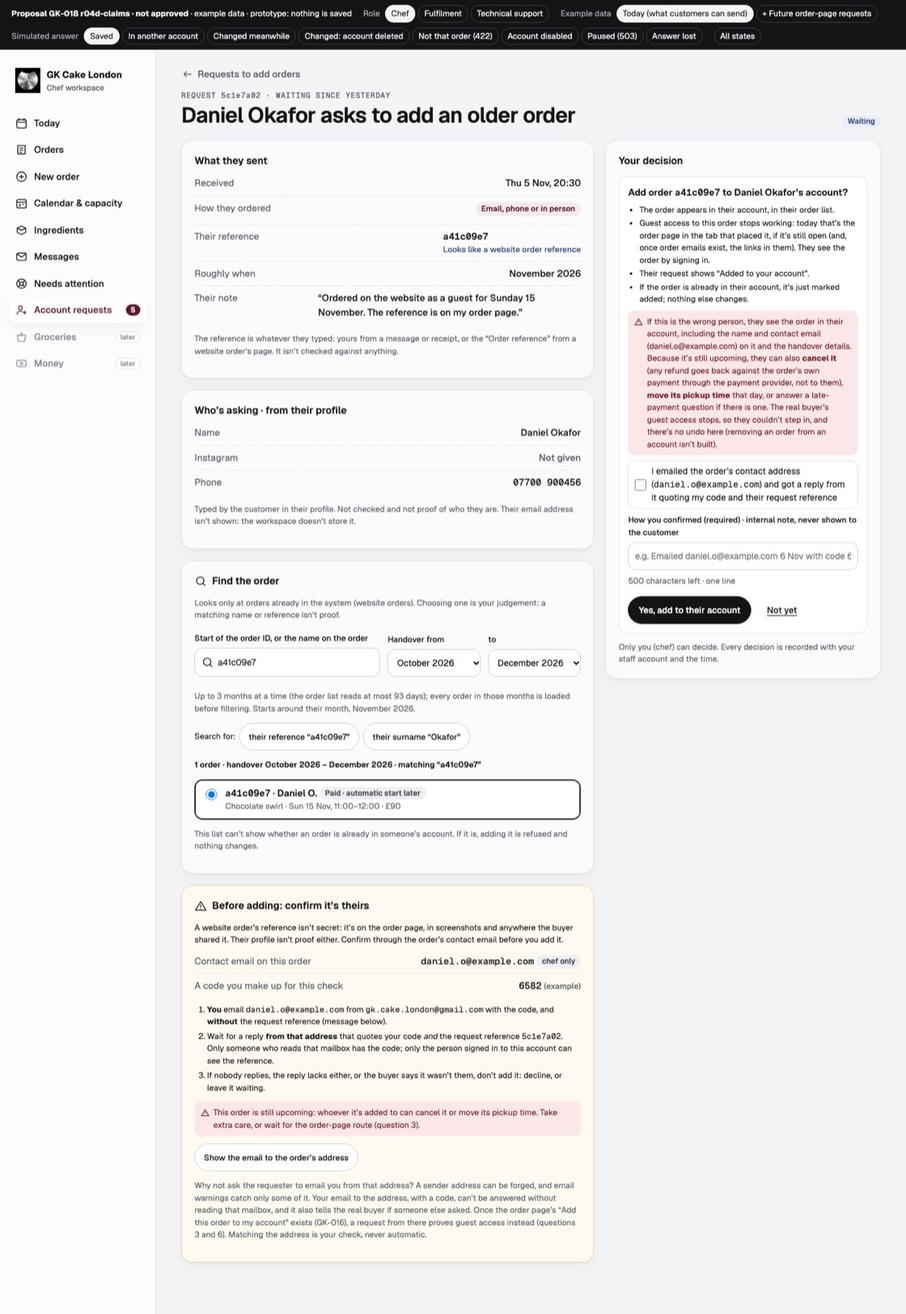
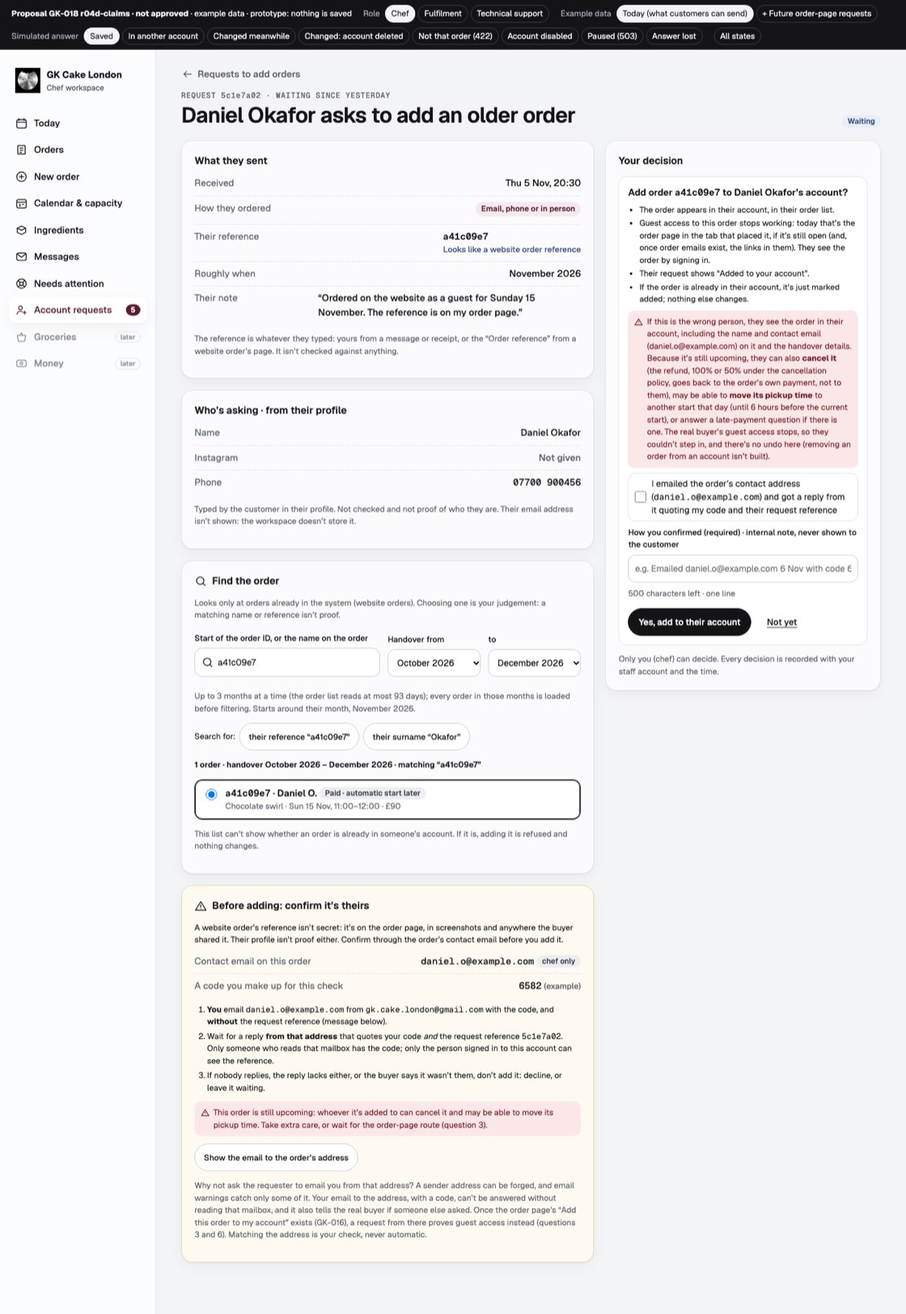
GK-018 r04d-claims: wording fixes after round 4 (still a proposal, not approved)
Wrong-approval warning: the refund is 100% or 50% under the cancellation policy and goes back to the
order's own payment; the pickup move is only for collection/customer-courier orders until 6 hours
before the start (omitted for GK delivery); the decision column adds 'Take extra care'. Garbled
execution-check line fixed; round-3 table aligned; round-4 table and checks in session.md; S23,
S34, S48 re-shot.

diff --git a/docs/design/sessions/chef-operations/gk-018-r04-claims/poc/request.js b/docs/design/sessions/chef-operations/gk-018-r04-claims/poc/request.js
@@ -87,6 +87,10 @@ function results(){const t=S.term.trim().toLowerCase();const inRange=ORDERS.filt
 // An order the account owner could still act on (api/README: the owner (bearer) may preview and cancel, move the pickup
 // time on the same day, and answer a late-payment offer). Handed over or cancelled orders can only be seen.
 const actionable=od=>od&&!['completed','cancelled'].includes(od.life);
+// The customer's own move: collection and customer-courier orders only, at least 6 hours before the current start, to
+// another published start that day (api/README "Customer move"; BO-GK-001.move_time). GK delivery: chef only.
+const canMove=od=>actionable(od)&&od.mode!=='gk_delivery';
+const ownerCan=od=>canMove(od)?'can cancel it and may be able to move its pickup time':'can cancel it';
 // A one-off code the chef makes up for this check (example derived from the request ID, so screenshots are stable).
 const checkCode=()=>String(parseInt(cl.id.slice(0,4),16)%9000+1000);
 function evidenceCard(){const od=picked();if(!needsCheck()||!pending||!od||savedNow())return '';
@@ -96,7 +100,7 @@ function evidenceCard(){const od=picked();if(!needsCheck()||!pending||!od||saved
  <p class="small">A website order’s reference isn’t secret: it’s on the order page, in screenshots and anywhere the buyer shared it. Their profile isn’t proof either. Confirm through the order’s contact email before you add it.</p>
  ${facts([['Contact email on this order',`<span class="mono">${esc(od.contact_email)}</span> <span class="chip-s chip-neutral">chef only</span>`],['A code you make up for this check',`<span class="mono">${code}</span> <span class="small muted">(example)</span>`]])}
  <ol class="steps small"><li><strong>You</strong> email <span class="mono">${esc(od.contact_email)}</span> from <span class="mono">${BUSINESS_EMAIL}</span> with the code, and <strong>without</strong> the request reference (message below).</li><li>Wait for a reply <strong>from that address</strong> that quotes your code <em>and</em> the request reference <span class="mono">${shortId(cl.id)}</span>. Only someone who reads that mailbox has the code; only the person signed in to this account can see the reference.</li><li>If nobody replies, the reply lacks either, or the buyer says it wasn’t them, don’t add it: decline, or leave it waiting.</li></ol>
- ${actionable(od)?`<p class="small wrong-person">${icon('alert','note-icon')}<span>This order is still upcoming: whoever it’s added to can cancel it or move its pickup time. Take extra care, or wait for the order-page route (question 3).</span></p>`:''}
+ ${actionable(od)?`<p class="small wrong-person">${icon('alert','note-icon')}<span>This order is still upcoming: whoever it’s added to ${ownerCan(od)}. Take extra care, or wait for the order-page route (question 3).</span></p>`:''}
  <details class="draft"><summary class="btn btn-small">Show the email to the order’s address</summary><div class="draft-body"><p class="small">To: <span class="mono">${esc(od.contact_email)}</span></p><p class="mail-body">${esc(msg)}</p><button class="btn btn-small" type="button" data-copy>Copy the email</button><p class="small muted">Never include the request reference in this email: the real buyer could reply with it and confirm someone else’s request. Prototype: nothing is copied or sent.</p></div></details>
  <p class="small muted">Why not ask the requester to email you from that address? A sender address can be forged, and email warnings catch only some of it. Your email to the address, with a code, can’t be answered without reading that mailbox, and it also tells the real buyer if someone else asked. Once the order page’s “Add this order to my account” exists (GK-016), a request from there proves guest access instead (questions 3 and 6). Matching the address is your check, never automatic.</p></section>`}
 function decidedCard(){const od=cl.order_id&&orderById(cl.order_id);const [t,tone]=STATE_CHEF[cl.state];
@@ -111,7 +115,7 @@ const noteField=(ph,label='Internal note (optional) · only you see it, never th
 // "the owner (bearer)". A cancellation refund is reserved against the order's own payment collections and sent through
 // the payment provider (Stripe), not to the person who cancels.
 const wrongPerson=od=>actionable(od)
- ?`If this is the wrong person, they see the order in their account, including the name and contact email (${esc(od.contact_email)}) on it and the handover details. Because it’s still upcoming, they can also <strong>cancel it</strong> (any refund goes back against the order’s own payment through the payment provider, not to them), <strong>move its pickup time</strong> that day, or answer a late-payment question if there is one. The real buyer’s guest access stops, so they couldn’t step in, and there’s no undo here (removing an order from an account isn’t built).`
+ ?`If this is the wrong person, they see the order in their account, including the name and contact email (${esc(od.contact_email)}) on it and the handover details. Because it’s still upcoming, they can also <strong>cancel it</strong> (the refund, 100% or 50% under the cancellation policy, goes back to the order’s own payment, not to them)${canMove(od)?', may be able to <strong>move its pickup time</strong> to another start that day (until 6 hours before the current start)':''}, or answer a late-payment question if there is one. The real buyer’s guest access stops, so they couldn’t step in, and there’s no undo here (removing an order from an account isn’t built).`
  :`If this is the wrong person, they see the order in their account, including the name and contact email (${esc(od.contact_email)}) on it and the handover details; the real buyer’s guest access stops; and there’s no undo here (removing an order from an account isn’t built). The order is ${od.life==='cancelled'?'cancelled':'handed over'}, so they can’t change it.`;
 function confirmApprove(od){const chk=needsCheck();return `<form class="confirm-box" data-approve novalidate aria-labelledby="ca-h"><p id="ca-h" class="strong" tabindex="-1" data-focus>Add order <span class="mono">${shortId(od.id)}</span> to ${theirAccount}?</p>
  <ul class="small list-tight"><li>The order appears in their account, in their order list.</li><li>${esc(GUEST_GONE)}</li><li>Their request shows “Added to your account”.</li><li>If the order is already in their account, it’s just marked added; nothing else changes.</li></ul>
@@ -141,7 +145,7 @@ function decisionCard(){
  let inner='';const od=picked();
  if(S.step==='review'){
   const add=isLink||od?`<button class="btn btn-primary" type="button" data-go="approve" data-focus>${isLink?'Add to their account':`Add order ${shortId(od.id)} to their account`}</button>`:`<button class="btn btn-primary" type="button" disabled aria-describedby="need-pick">Add to their account</button><p id="need-pick" class="small muted">Choose an order under “Find the order” first.</p>`;
-  inner=`${!isLink&&od?`<p class="small">Chosen: ${esc(orderLine(od))} · name on the order <strong>${esc(od.customer_full_name)}</strong> · contact email <span class="mono">${esc(od.contact_email)}</span></p><p class="small warn-text">Confirm through that address before adding (see “Before adding”).</p>${actionable(od)?'<p class="small bad-text">Still upcoming: whoever it’s added to can cancel it or move its pickup.</p>':''}`:''}<div class="actions stack">${add}<button class="btn" type="button" data-go="decline">Decline</button></div><p class="small muted">Not sure? Leave it waiting and <a href="requests.html">go back</a>; nothing changes.</p>`}
+  inner=`${!isLink&&od?`<p class="small">Chosen: ${esc(orderLine(od))} · name on the order <strong>${esc(od.customer_full_name)}</strong> · contact email <span class="mono">${esc(od.contact_email)}</span></p><p class="small warn-text">Confirm through that address before adding (see “Before adding”).</p>${actionable(od)?`<p class="small bad-text">Still upcoming: whoever it’s added to ${ownerCan(od)}. Take extra care (see “Before adding”).</p>`:''}`:''}<div class="actions stack">${add}<button class="btn" type="button" data-go="decline">Decline</button></div><p class="small muted">Not sure? Leave it waiting and <a href="requests.html">go back</a>; nothing changes.</p>`}
  if(S.step==='approve')inner=od?confirmApprove(od):'<p class="small bad-text">Choose an order first.</p>';
  if(S.step==='decline')inner=declineForm();
  if(S.step==='busy')inner=`<div class="actions stack"><button class="btn ${S.decision==='approve'?'btn-primary':'btn-danger'}" type="button" disabled aria-busy="true"><span class="spinner light" aria-hidden="true"></span>${S.decision==='approve'?'Adding…':'Declining…'}</button></div><p class="small" role="status" tabindex="-1" data-focus>${S.decision==='approve'?'Adding the order to their account…':'Declining the request…'}</p>`;

diff --git a/docs/design/sessions/chef-operations/gk-018-r04-claims/poc/order.js b/docs/design/sessions/chef-operations/gk-018-r04-claims/poc/order.js
@@ -22,7 +22,7 @@ const reply=`Hello! To add your order to your GK Cake London account, please sig
 function optionA(){return `<p>To add this order to a customer’s account, the customer sends a request from their account. It then appears in <a href="requests.html">Requests to add orders</a>, where you add it with the same checks.</p>
  <ol class="steps small"><li>Reply to the customer (Instagram, email or phone): ask them to send the order’s reference, which starts <span class="mono strong">${ref}</span>.</li><li>They sign in and send it from <em>Account → Add an older order</em>, choosing “Email, phone or in person”.</li><li>You find the order from the request, <strong>confirm through the order’s contact email</strong> (you email that address with a code; the reply from it quotes the code and their request reference), then add it: they see “Added to your account”.</li></ol>
  <details class="draft"><summary class="btn btn-small">Show a reply you can copy</summary><div class="draft-body"><p class="mail-body" id="reply-text">${esc(reply)}</p><button class="btn btn-small" type="button" data-copy>Copy the reply</button><p class="small muted">Prototype: nothing is copied or sent. You send it yourself where you talk to the customer.</p></div></details>
- <div class="banner banner-warn small">${icon('alert','banner-icon')}<div><p><strong>A works smoothly only after a GK-016 wording change.</strong> Today the customer’s “Add an older order” page is titled for Instagram, email or in-person orders, asks for the “Order reference from the chef (e.g. IG-0613)” and offers only Instagram or “Email, phone or in person”. Its side panel promises “She can add an order for you”. Question 6 (a website choice and wording) is a prerequisite of A; until then the reply above explains the workaround. A reference alone isn’t proof, so A always includes the contact-email check (question 3). For an upcoming order a wrong approval lets the wrong person cancel it or move its pickup.</p></div></div>`}
+ <div class="banner banner-warn small">${icon('alert','banner-icon')}<div><p><strong>A works smoothly only after a GK-016 wording change.</strong> Today the customer’s “Add an older order” page is titled for Instagram, email or in-person orders, asks for the “Order reference from the chef (e.g. IG-0613)” and offers only Instagram or “Email, phone or in person”. Its side panel promises “She can add an order for you”. Question 6 (a website choice and wording) is a prerequisite of A; until then the reply above explains the workaround. A reference alone isn’t proof, so A always includes the contact-email check (question 3). For an upcoming order a wrong approval lets the wrong person cancel it (the buyer may get only 50% back under the cancellation policy) and, for collection or courier orders, possibly move its pickup time.</p></div></div>`}
 function optionB(){
  if(S.step==='done')return result();
  const ready=UUID.test(S.acct.trim())&&S.evidence.trim().length>0;

diff --git a/docs/design/sessions/chef-operations/gk-018-r04-claims/check.html b/docs/design/sessions/chef-operations/gk-018-r04-claims/check.html
@@ -64,8 +64,8 @@ const btn=(d,re,sel='button')=>[...d.querySelectorAll(sel)].find(b=>re.test(b.te
  set($(d,'[data-find] [name=q]'),'Tom');log(!/Tom/.test(f.contentWindow.location.search),'search term not written to the URL');
  const r2=[...d.querySelectorAll('[name=pick]')].find(x=>x.value==='8b20d4e6');r2.checked=true;r2.dispatchEvent(new Event('change',{bubbles:true}));log(/tom\.b@example\.com/.test(txt(d,'#evidence-slot')),'choosing an order shows its evidence step');
  d=await open('request.html?id=c7e1a904&data=future&step=approve');log(!$(d,'[name=confirmed]')&&/guest access/.test(txt(d,'[data-approve]'))&&/wrong person/.test(txt(d,'[data-approve]')),'future path: no contact-email tick (guest access shown), wrong-person line kept');
- d=await open('request.html?id=5c1e7a02&q=a41c09e7&pick=a41c09e7');log(/still upcoming/.test(txt(d,'#evidence-slot'))&&/cancel it or move its pickup/.test(txt(d,'.decision')),'upcoming order: evidence step and decision warn about cancel/move');
- click(btn(d,/Add order a41c09e7/));const wp=txt(d,'.confirm-box .wrong-person');log(/cancel it/.test(wp)&&/move its pickup time/.test(wp)&&/late-payment question/.test(wp)&&/not to them/.test(wp)&&/couldn’t step in/.test(wp),'upcoming order: wrong-person line names cancel, move, late-payment answer and where refunds go');
+ d=await open('request.html?id=5c1e7a02&q=a41c09e7&pick=a41c09e7');log(/still upcoming/.test(txt(d,'#evidence-slot'))&&/can cancel it and may be able to move its pickup time\. Take extra care/.test(txt(d,'.decision')),'upcoming order: evidence step and decision warn about cancel/move');
+ click(btn(d,/Add order a41c09e7/));const wp=txt(d,'.confirm-box .wrong-person');log(/cancel it/.test(wp)&&/move its pickup time/.test(wp)&&/late-payment question/.test(wp)&&/not to them/.test(wp)&&/100% or 50% under the cancellation policy/.test(wp)&&/6 hours before the current start/.test(wp)&&/couldn’t step in/.test(wp),'upcoming order: wrong-person line names cancel (100% or 50%), the 6-hour move, late-payment answer and where refunds go');
  d=await open('request.html?id=e41a7b2c');log(/Added · account deleted since/.test(txt(d,'.page-head')),'S33 header chip says account deleted since');
  d=await open('requests.html?state=more');click($(d,'[data-more]'));log(d.querySelectorAll('#rows tr').length===8,'Show the next requests adds the next page');
  d=await open('requests.html?role=support');log(!d.querySelector('a[href="requests.html"] .nav-count')&&/Elina’s \(chef\) only/.test(txt(d,'.role-note')),'technical support: no item, role note');

diff --git a/docs/design/sessions/chef-operations/gk-018-r04-claims/session.md b/docs/design/sessions/chef-operations/gk-018-r04-claims/session.md
@@ -13,6 +13,10 @@ away. The planning master pushed it as **draft PR #59**.
   evidence message contained the request reference) and a nit. r04d, in the same folder, addresses them; see
   [Review round 3 changes](#review-round-3-changes).
 
+**r04d wording fixes after round 4.** Round 4 (a fresh reviewer, on 125a51c) returned **READY FOR CREATOR**,
+with one minor and three nits. They're applied in r04d without a new revision letter; see
+[r04d wording fixes after round 4](#r04d-wording-fixes-after-round-4).
+
 r04d still needs a fresh re-review and the Creator's exact-version approval. No implementation ticket may treat it
 as approved.
 
@@ -71,8 +75,7 @@ settle the decision:
     r04d);
   - waiting for the order-page button.
 
-  They're for the Creator, for the Creator, with the
-  master's routing check.
+  They're for the Creator to decide, with the master's routing check.
 - Acceptance needs the master to confirm the model choice for this decision, or to route it to a qualified worker
   or reviewer, plus an independent re-review.
 - Nothing here is implementation-ready until then.
@@ -109,7 +112,8 @@ Readback:
 
 | Input | Hash |
 | --- | --- |
-| Review findings `pr59-round1.md` (round 1, REVISE on a338fd2) / `pr59-round2.md` (round 2, REVISE on b085103) / `pr59-round3.md` (round 3, REVISE on 39e5093) | 8bba039551095f32 / 2fd838b963aef899 / f337cb0c8151ff6d |
+| Review findings `pr59-round1.md` (round 1, REVISE on a338fd2) / `pr59-round2.md` (round 2, REVISE on b085103) / `pr59-round3.md` (round 3, REVISE on 39e5093) / `pr59-round4.md` (round 4, READY FOR CREATOR on 125a51c) | 8bba039551095f32 / 2fd838b963aef899 / f337cb0c8151ff6d / f2e1bab63e4786c1 |
+| api/README.md "Cancellation (K05)" (lines 1708–1717: customer cancellation 100% strictly before `full_refund_deadline_at` = original handover − 120 h, exactly 50% at or after; chef 100%) and "Customer move" (2303–2317: collection and customer-courier only, `confirmed`/`in_production`/`ready`, current start at least 6 hours away, another published start the same London day) | in the README hash above |
 | api/README.md owner routes, read for round 3: cancellation preview/cancel "the owner (bearer)" (lines 1718–1723) and its refund reservation per payment collection, dispatched to Stripe (1726–1757); late-payment answer (1866); same-day pickup move (1084, 2292) | in the README hash above |
 | ui/src/lib/guest.ts (guest capability: this tab's sessionStorage only, gone when the tab closes) | 11f61ce0ae207e2c |
 | AGENTS.md | d357f39d8b39ec72 |
@@ -205,9 +209,18 @@ The r04c screenshots are in 39e5093's tree; r04d replaces them (all re-shot, bel
 
 | Finding | Change in r04d |
 | --- | --- |
-| **Major:** the wrong-approval warning left out that the wrong person can act on the order | I checked `api/README.md` first. "The owner (bearer)" may:<br>- preview and cancel the order (`/orders/{id}/cancellation-preview`, `/cancel`, lines 1718–1723);<br>- move its pickup time on the same day (`/orders/{id}/pickup`, 2292; "same-day move choices", 1084);<br>- answer a late-payment offer (`/late-payment/answer`, 1866).<br>A cancellation's refund is reserved against the order's own payment collections and dispatched to the payment provider, Stripe (1726–1757). **For an order still upcoming** (not handed over or cancelled), the red confirmation line now says they can also **cancel it** (any refund goes back against the order's own payment through the payment provider, not to them), **move its pickup time** that day, or answer a late-payment question if there is one, and that the real buyer, having lost guest access, couldn't step in. For a handed-over or cancelled order it says "so they can't change it". The evidence card and the decision column add, for upcoming orders, "whoever it's added to can cancel it or move its pickup time. Take extra care, or wait for the order-page route (question 3)". New state S48 (upcoming order a41c09e7). Question 3 lists the same risks and gives upcoming orders their own advice. Option A's warning mentions it. |
+| **Major:** the wrong-approval warning left out that the wrong person can act on the order | I checked `api/README.md` first. "The owner (bearer)" may:<br>- preview and cancel the order (`/orders/{id}/cancellation-preview`, `/cancel`, lines 1718–1723);<br>- move its pickup time on the same day (`/orders/{id}/pickup`, 2292; "same-day move choices", 1084);<br>- answer a late-payment offer (`/late-payment/answer`, 1866).<br>A cancellation's refund is reserved against the order's own payment collections and dispatched to the payment provider, Stripe (1726–1757). **For an order still upcoming** (not handed over or cancelled), the red confirmation line now says they can also **cancel it** (any refund goes back against the order's own payment through the payment provider, not to them), **move its pickup time** that day, or answer a late-payment question if there is one, and that the real buyer, having lost guest access, couldn't step in. For a handed-over or cancelled order it says "so they can't change it". For upcoming orders the evidence card adds "whoever it's added to can cancel it or move its pickup time. Take extra care, or wait for the order-page route (question 3)", and the decision column adds "Still upcoming: whoever it's added to can cancel it or move its pickup." (After round 4 both read as in the round-4 table below.) New state S48 (upcoming order a41c09e7). Question 3 lists the same risks and gives upcoming orders their own advice. Option A's warning mentions it. |
 | **Minor:** the evidence message contained the request reference, and could be sent to the order's address | The evidence method is reversed, on its merits (question 3 explains):<br>1. The chef emails the order's contact address herself, from `gk.cake.london@gmail.com`, with a one-off code she makes up (example `4487`) and **without** the request reference.<br>2. She waits for a reply **from that address** quoting the code and the request reference, which only the account holder can read.<br>3. If nobody replies, the reply lacks either, or the buyer says it wasn't them: don't add it.<br>The copyable email goes to the order's address, never contains the reference, and says why ("the real buyer could reply with it and confirm someone else's request"). It also tells the real buyer someone asked. The card explains why the requester isn't asked to email from the address (a sender address can be forged, and email warnings catch only some of it). The tick now reads "I emailed the order's contact address (…) and got a reply from it quoting my code and their request reference", and the placeholder reads "Emailed … with code 4487; reply quoted 4487 and 9a3f2c71". Option A's reply and steps follow the same method. |
 | **Nit:** no r04c output hashes | Added (above), next to r04 and r04b. |
+
+## r04d wording fixes after round 4
+
+| Finding (round 4, READY FOR CREATOR) | Change |
+| --- | --- |
+| **Minor:** refund amount understated ("any refund goes back…" read as if the buyer is made whole) | Per api/README "Cancellation (K05)", a customer cancellation returns 100% strictly before `full_refund_deadline_at` (original handover − 120 h) and exactly 50% at or after. The upcoming-order warning in `wrongPerson()` now reads "they can also **cancel it** (the refund, 100% or 50% under the cancellation policy, goes back to the order's own payment, not to them)". The same wording is in question 3 (i) "Against", the Approve list, S48 and the PR text. Option A's warning: "the buyer may get only 50% back under the cancellation policy". |
+| **Nit:** garbled line in the execution check ("for the Creator, for the Creator") | "They're for the Creator to decide, with the master's routing check." |
+| **Nit:** the round-3 table said the decision column also says "Take extra care…" | I chose to add the line to the decision column: "Still upcoming: whoever it's added to can cancel it and may be able to move its pickup time. Take extra care (see 'Before adding')." The round-3 table now quotes what r04d originally showed, and points here. |
+| **Nit:** pickup move worded too broadly | Per api/README "Customer move": collection and customer-courier orders only, at least 6 hours before the current start, to another published start that day. The warning now says "may be able to **move its pickup time** to another start that day (until 6 hours before the current start)". It's left out entirely for GK delivery orders, whose times only the chef changes. The short warnings read "can cancel it and may be able to move its pickup time" (or "can cancel it" for GK delivery). |
 
 **For the PR #59 description** (the master edits it; I don't). r04d, still not approved:
 
@@ -219,8 +232,10 @@ The r04c screenshots are in 39e5093's tree; r04d replaces them (all re-shot, bel
   - a reply from it must quote the code and the request reference from the account;
   - the chef must tick "I emailed … and got a reply …" and say how.
 - **A wrong-person warning shows what a wrong approval does.** The wrong person sees the order with its contact
-  email. For an upcoming order they can also cancel it (any refund goes back against the order's own payment), move
-  its pickup time or answer a late-payment question, while the buyer has lost guest access. There's no undo.
+  email. For an upcoming order they can also cancel it (the refund, 100% or 50% under the cancellation policy, goes
+  back to the order's own payment, not to them), may be able to move its pickup time (collection and courier orders,
+  until 6 hours before the start), or answer a late-payment question, while the buyer has lost guest access. There's
+  no undo.
 
   The alternative, waiting for the order-page button, is put to the Creator (questions 3 and 6).
 - Approving revokes guest access, which today is only the order page in the tab that placed the order, if still
@@ -310,7 +325,8 @@ from their profile", then **Find the order**:
   - **The chef emails that address** with the code and without the request reference.
   - She waits for a reply from that address quoting the code and the request reference, which is only in the
     account. If either is missing, or the buyer says it wasn't them, she doesn't add it.
-  - For upcoming orders there's a red line: whoever it's added to can cancel it or move its pickup time.
+  - For upcoming orders there's a red line: whoever it's added to can cancel it and may be able to move its pickup
+    time (not for GK delivery). The decision column repeats it with "Take extra care".
   - The email to copy goes to the order's address, never contains the reference, and says why. The card explains
     why the requester isn't asked to email from the address (forgeable sender).
   - The search list never shows contact emails.
@@ -326,9 +342,10 @@ banner when two requests name it, then what they sent and who.
 - their request shows "Added to your account";
 - if it's already in their account it's just marked added;
 - in red: if this is the wrong person, they see the order in their account, including the name and contact email
-  on it and the handover details. **For an upcoming order** they can also cancel it (any refund goes back against
-  the order's own payment through the payment provider, not to them), move its pickup time that day, or answer a
-  late-payment question if there is one, and the real buyer, having lost guest access, couldn't step in. There's
+  on it and the handover details. **For an upcoming order** they can also cancel it (the refund, 100% or 50% under
+  the cancellation policy, goes back to the order's own payment, not to them), may be able to move its pickup time
+  to another start that day (collection and customer-courier orders, until 6 hours before the current start), or
+  answer a late-payment question if there is one, and the real buyer, having lost guest access, couldn't step in. There's
   no undo. For a handed-over or cancelled order: "so they can't change it".
 
 For a path c request, the chef must tick "I emailed the order's contact address (…) and got a reply from it quoting
@@ -409,7 +426,7 @@ today).
 | S20 Chosen + evidence step | "Chosen: … · contact email tom.b@example.com"; "Before adding: confirm it's theirs" (contact email, chef only; example code 4487; you email the address, the reply quotes the code and reference; email to copy without the reference) | Add order 8b20d4e6…; Decline; Show the email to the order's address | S21 | `GET /admin/orders` row incl. chef-only `contact_email` |
 | S21 Confirm add (handed over) | Consequences true today; red wrong-person line ("so they can't change it"); required tick and "How you confirmed" | Yes, add…; Not yet | alert + focus if missing; busy → S22 | — |
 | S47 Confirm add, filled in | Tick ticked; "Emailed tom.b@example.com 6 Nov with code 4487; reply quoted 4487 and 9a3f2c71" | Yes, add… | busy → S22 | `decision: approve, order_id, note` |
-| S48 Confirm add (upcoming) | a41c09e7 (paid, Sun 15 Nov). The red line adds: they could cancel it (refund back against the order's own payment), move its pickup time or answer a late-payment question; the buyer couldn't step in. The evidence card and decision column warn too | Yes, add…; Not yet | busy → result | — |
+| S48 Confirm add (upcoming) | a41c09e7 (paid, Sun 15 Nov). The red line adds: they could cancel it (the refund, 100% or 50% under the cancellation policy, goes back to the order's own payment, not to them), may be able to move its pickup time to another start that day (until 6 hours before), or answer a late-payment question; the buyer couldn't step in. The evidence card and decision column warn too | Yes, add…; Not yet | busy → result | — |
 | S22 Added | "The order you added" + result | Next waiting request | — | `decision: approve, order_id` → 200 |
 | S23 In another account | Refusal (Daniel Okafor, a41c09e7) | Choose another order; Decline | — | 409 `ORDER_OWNED` |
 | S24 In another account (choose another) | Refusal | Choose another order; Decline | S19 / S14 | 409 `ORDER_OWNED` |
@@ -560,8 +577,10 @@ key is made when the decision, the chosen order or the note changes.
        - the address can be mistyped, shared or stale;
        - the evidence is free text;
        - a wrong approval shows the order (with its contact email) to the wrong person, with no undo;
-       - **for an upcoming order**, the wrong person could also cancel it (the refund goes back against the order's
-         own payment, not to them), move its pickup time or answer a late-payment question, and the real buyer,
+       - **for an upcoming order**, the wrong person could also cancel it (the refund, 100% or 50% under the
+         cancellation policy, goes back to the order's own payment, not to them; within 5 days of the handover the
+         buyer would lose the cake and half their money), may be able to move its pickup time (collection and
+         courier orders, until 6 hours before the start), or answer a late-payment question, and the real buyer,
          who has lost guest access, couldn't step in.
      - *Which email method?* Two methods were considered:
        - **(a)** The requester emails the chef from the order's address, quoting the request reference (r04c).
@@ -632,6 +651,13 @@ Creator questions.
   the review bar reads r04d on every page. Looked at: S48 (desktop) and S47 (mobile). Both read correctly, with no
   fixes needed.
 - `python3 scripts/check_planning_kit.py` passes (run before the commit).
+- **After the round-4 wording fixes:**
+  - `node --check` passes.
+  - `check.html` passes 107 of 107. The upcoming-order checks now require "100% or 50% under the cancellation
+    policy", "6 hours before the current start" and the decision column's "Take extra care".
+  - `check_planning_kit.py` passes.
+  - Re-shot only the screenshots whose text changed: S23 and S48 (the upcoming order's evidence card, decision and
+    confirmation) and S34 (option A's warning). I looked at S48 desktop and S34 mobile; both read correctly.
 
 ## Screenshots (`screenshots/`)
 
